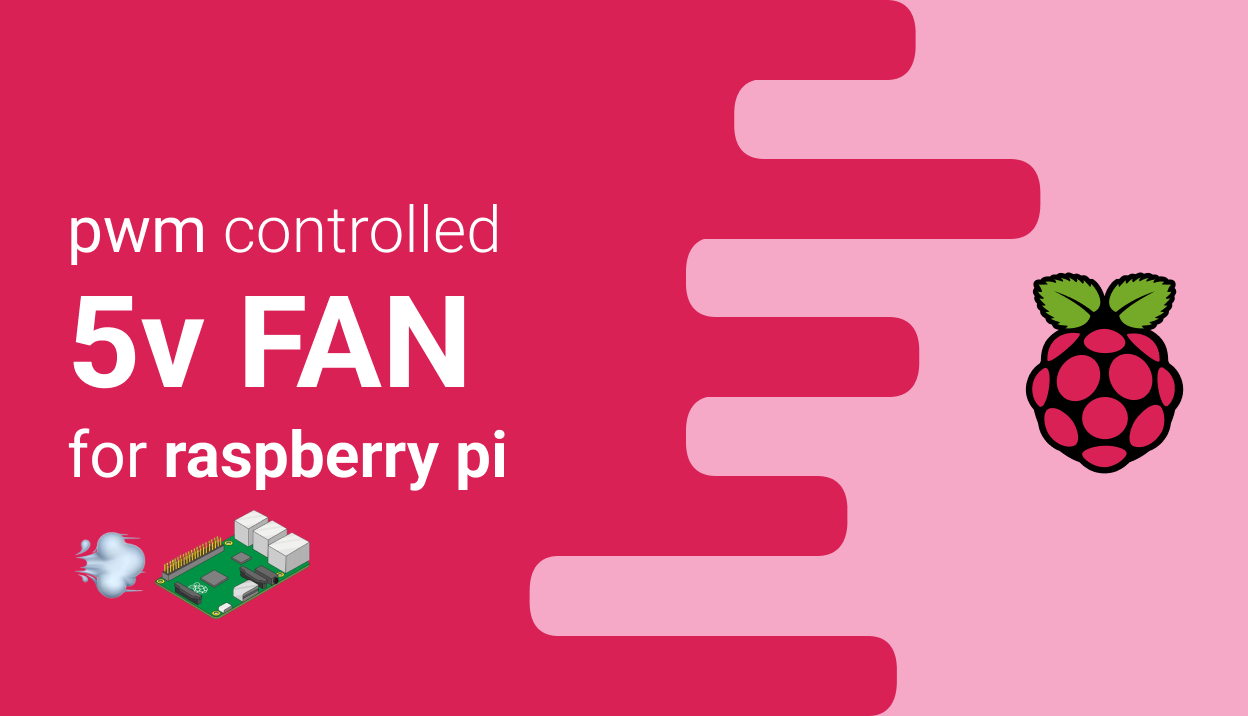
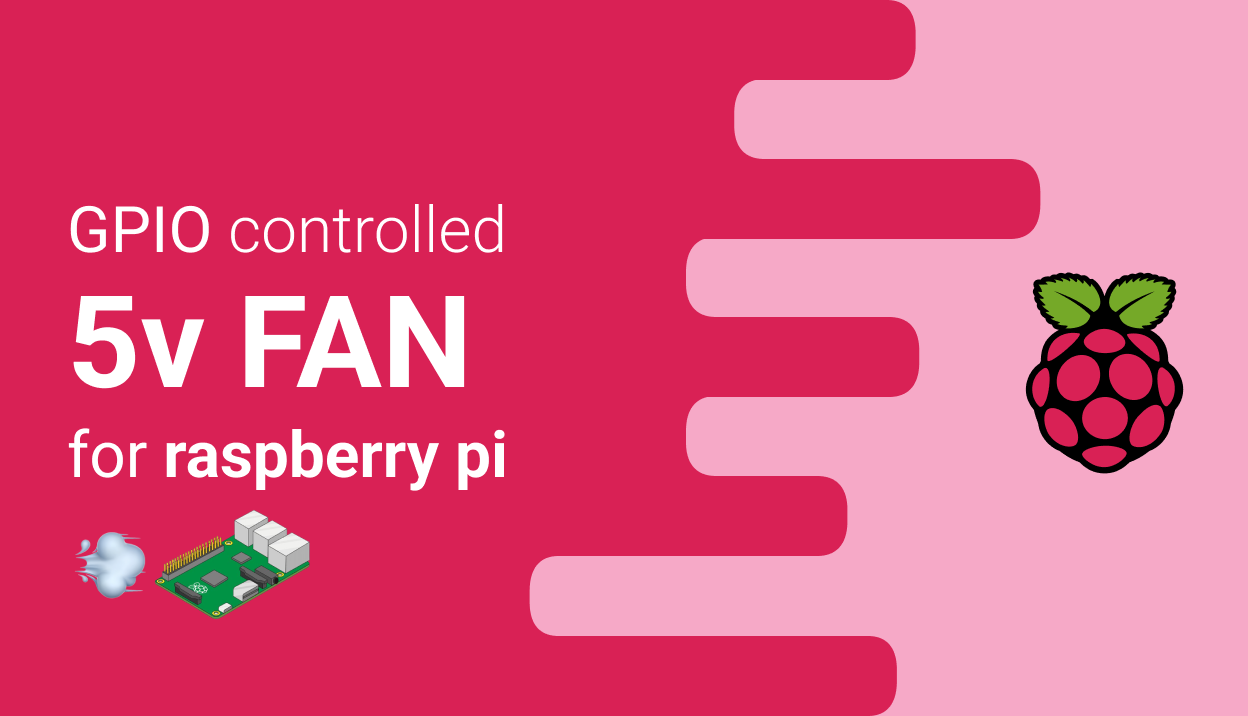
changed pi fan article title/header

Changed region(s): [[0.0312, 0.2765, 0.4062, 0.3687]]

diff --git a/README.md b/README.md
@@ -3,6 +3,6 @@
 Collection of personal projects using electronic stuff, such as `arduino`, `raspberry pi`, etc
 
 ## Projects
-- [pi-fan](/pi-fan/README.md): A pwm controlled fan that turns on when a certain temperature is reached.
+- [pi-fan](/pi-fan/README.md): A GPIO controlled fan that turns on when a certain temperature is reached.
 
     <img height="150px" src="./pi-fan/images/header.png"/>

diff --git a/pi-fan/README.md b/pi-fan/README.md
@@ -2,7 +2,7 @@
 
 ![alt](./images/header.png)
 
-PWD controller fan, turning on only when a certain temperature is reached.
+GPIO controller fan, turning on only when a certain temperature is reached.
 
 You can always check your pi pinouts by going [here](https://pinout.xyz/)
 
